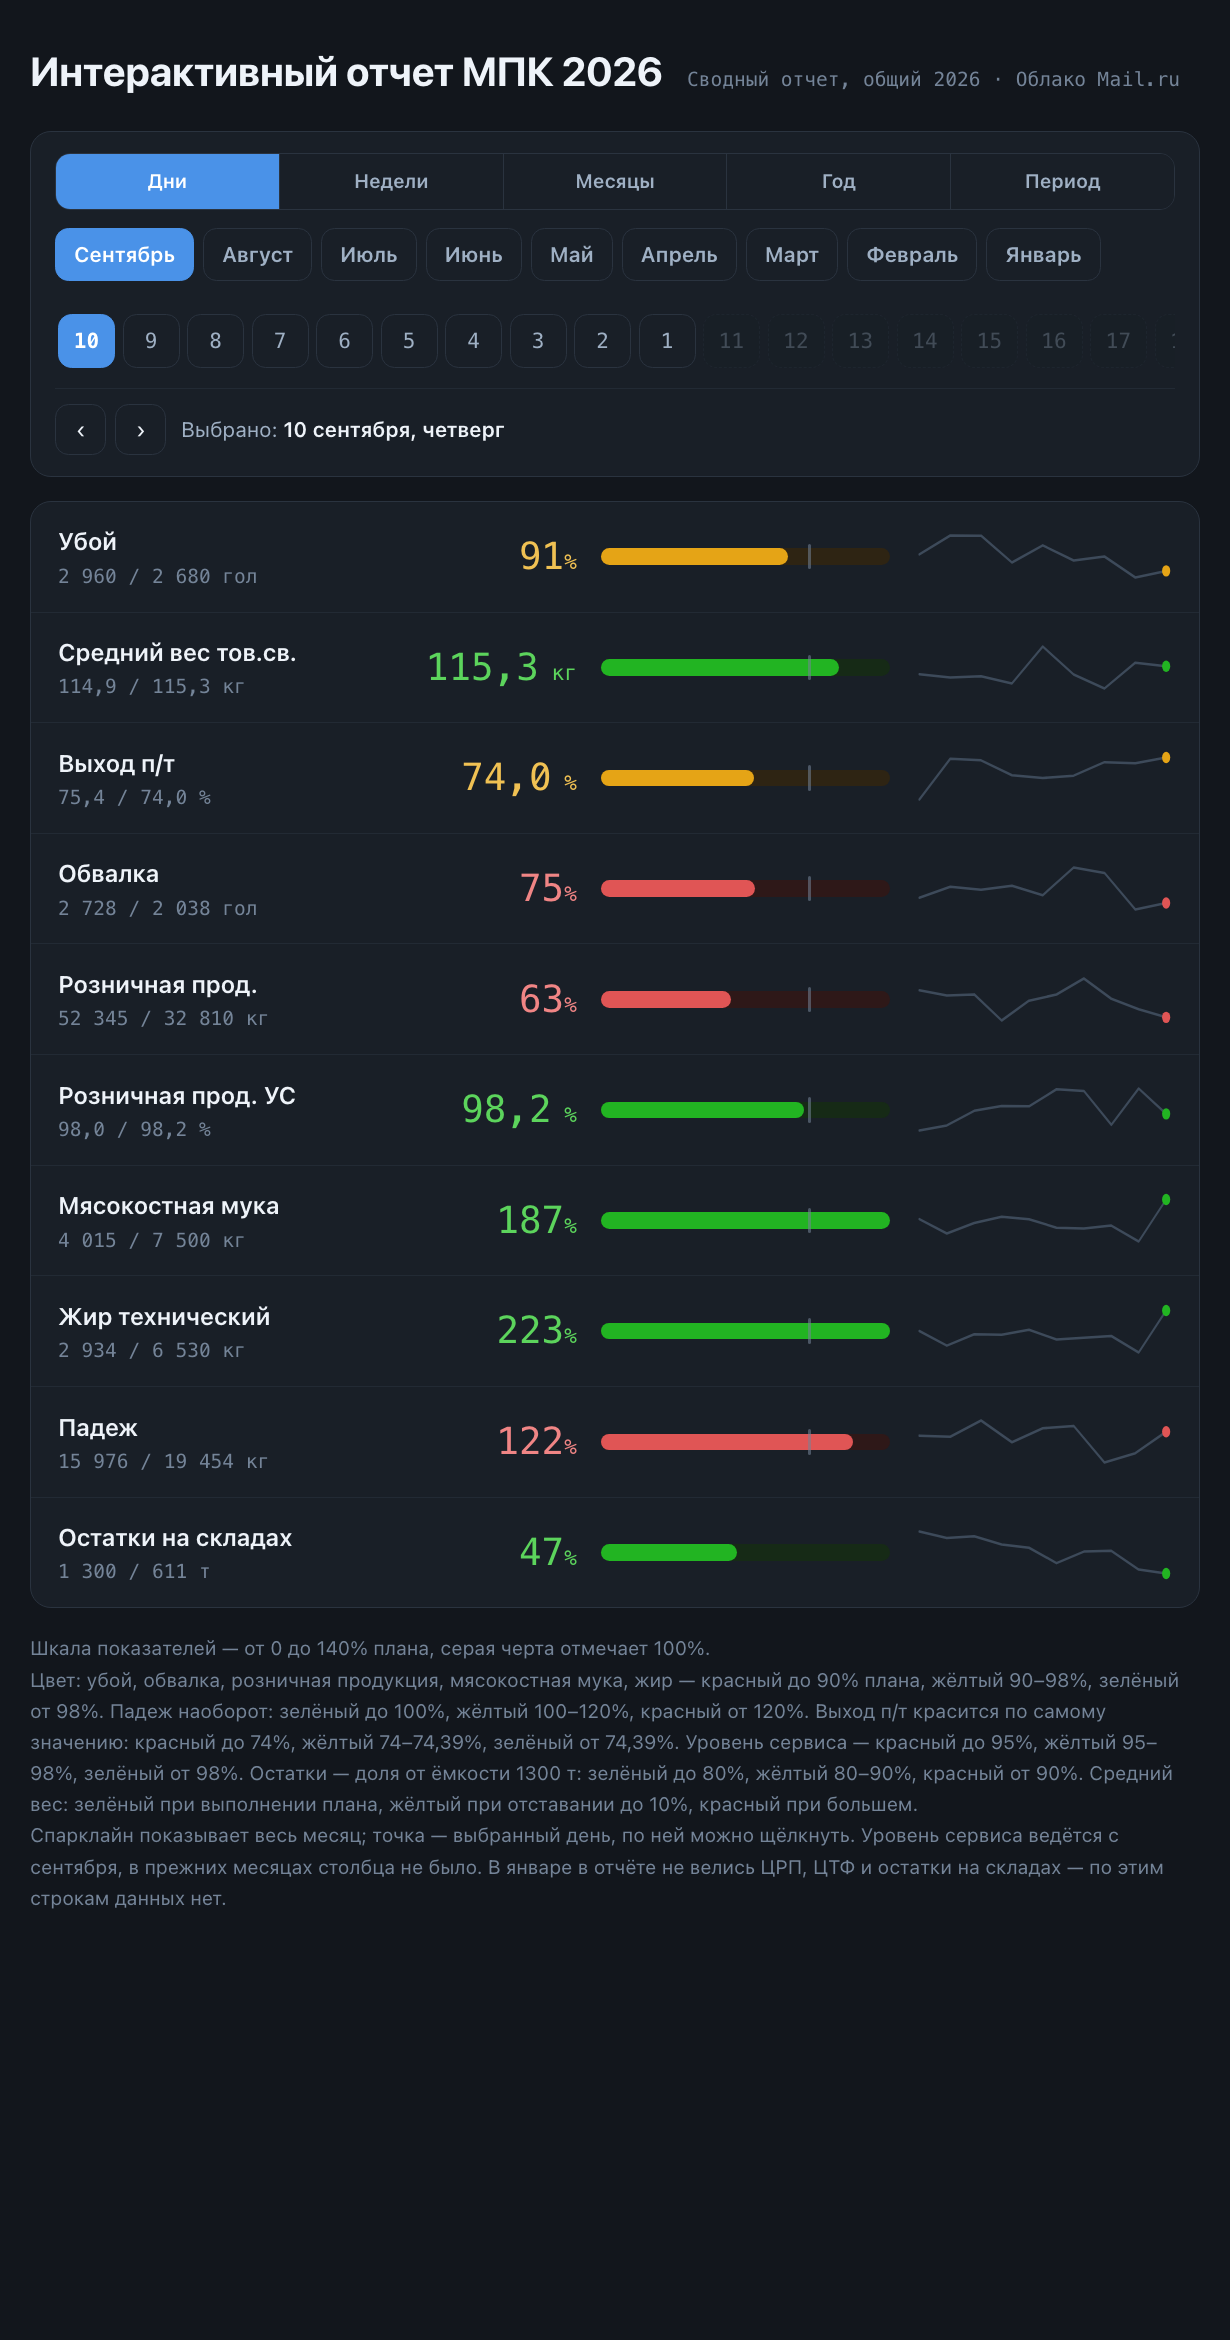
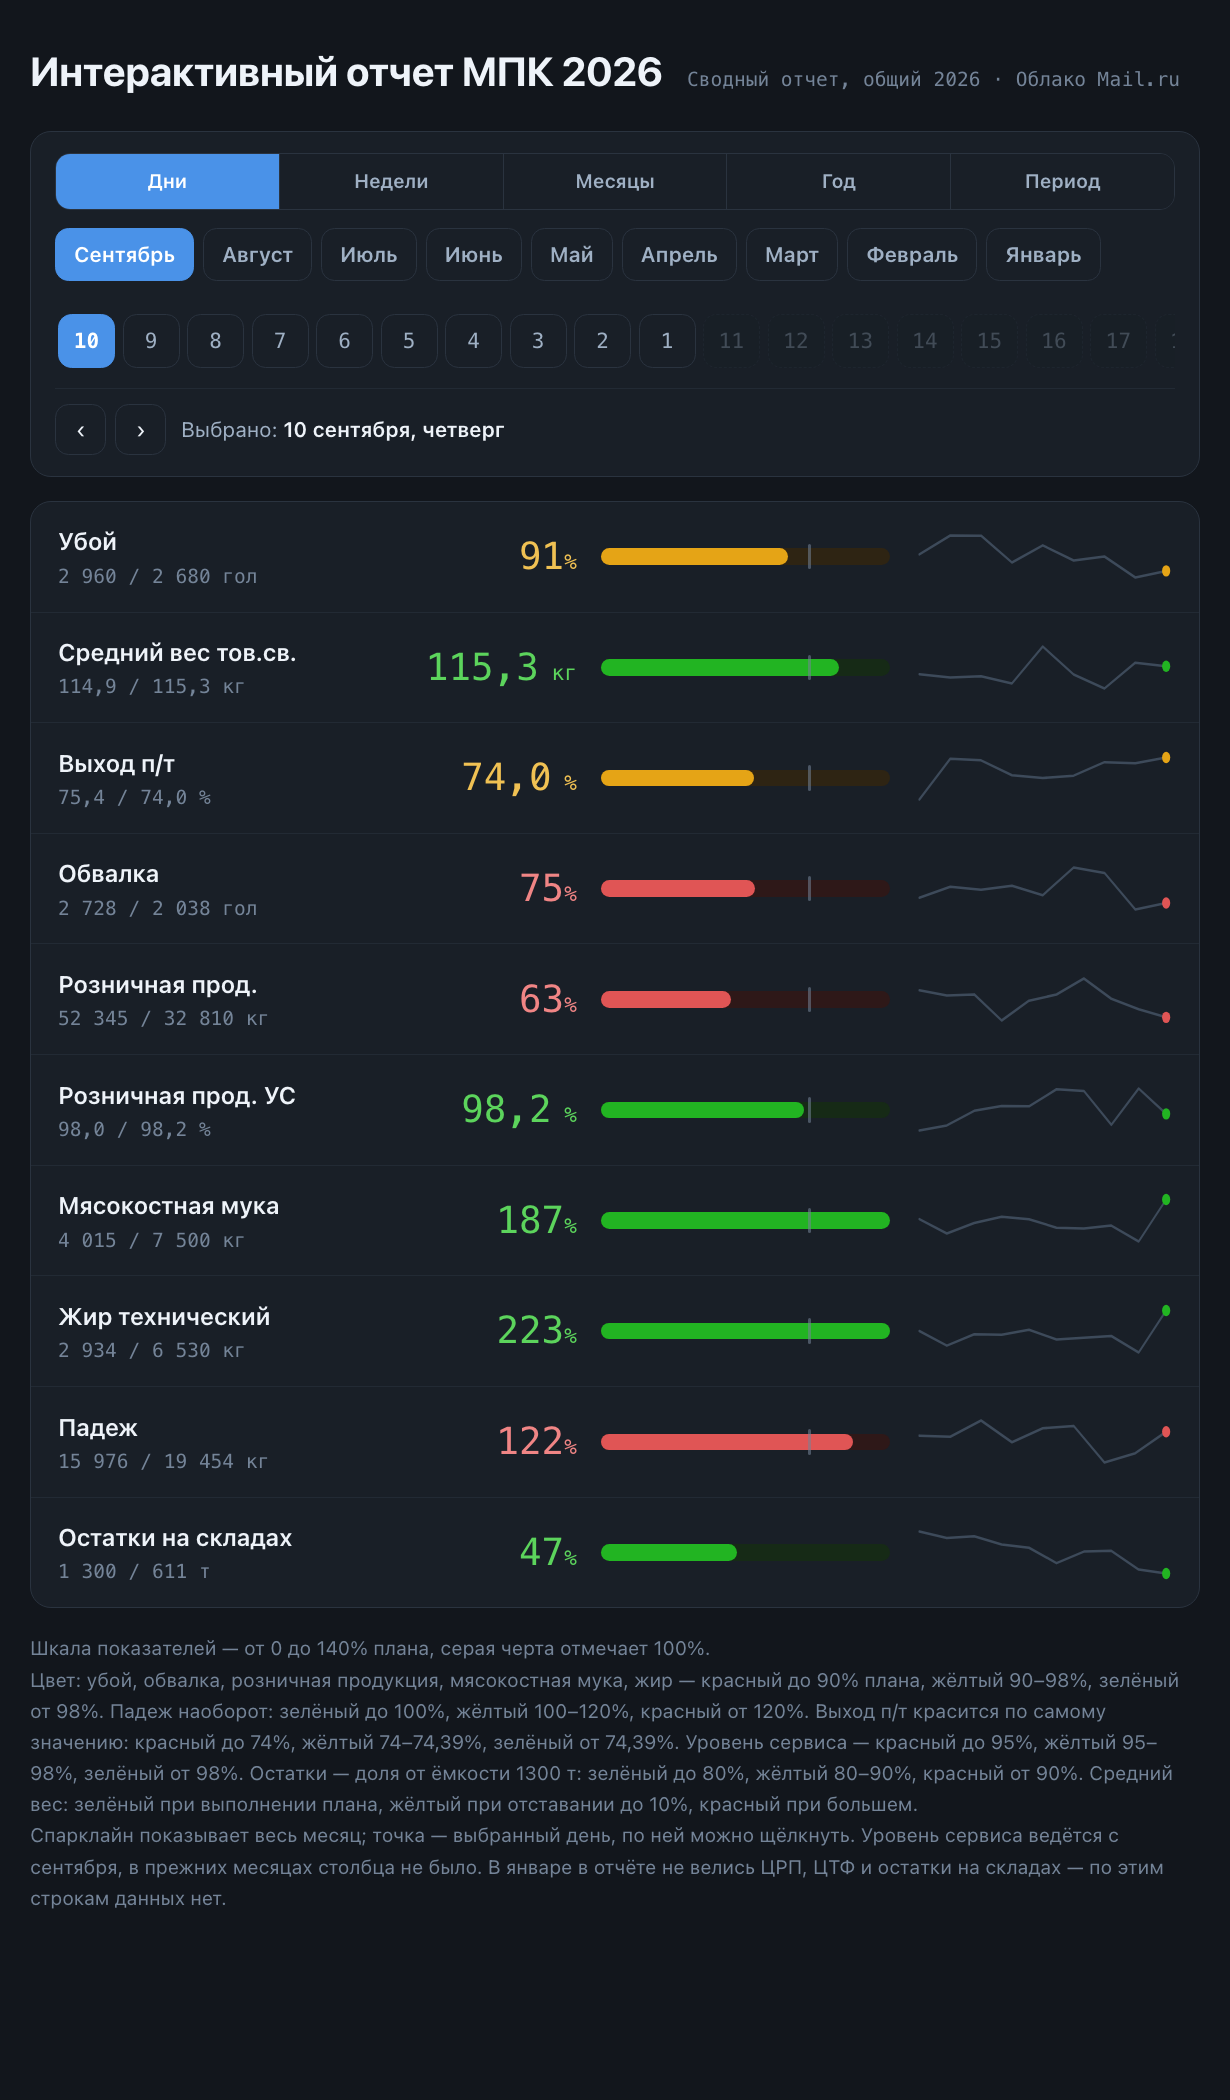
Данные по 10.09.2026

diff --git a/index.html b/index.html
@@ -9,7 +9,7 @@
 <meta property="og:title" content="Сводка МПК за 10.09.2026">
 <meta property="og:description" content="Интерактивный отчёт МПК 2026: дни, недели, месяцы, год, период">
 <meta property="og:image" content="https://pashaleb-alt.github.io/MPK/preview.png">
-<meta property="og:image:width" content="1230"><meta property="og:image:height" content="2340">
+<meta property="og:image:width" content="1230"><meta property="og:image:height" content="2100">
 <meta name="twitter:card" content="summary_large_image">
 <meta name="twitter:image" content="https://pashaleb-alt.github.io/MPK/preview.png">
 <title>Интерактивный отчет МПК 2026</title>
